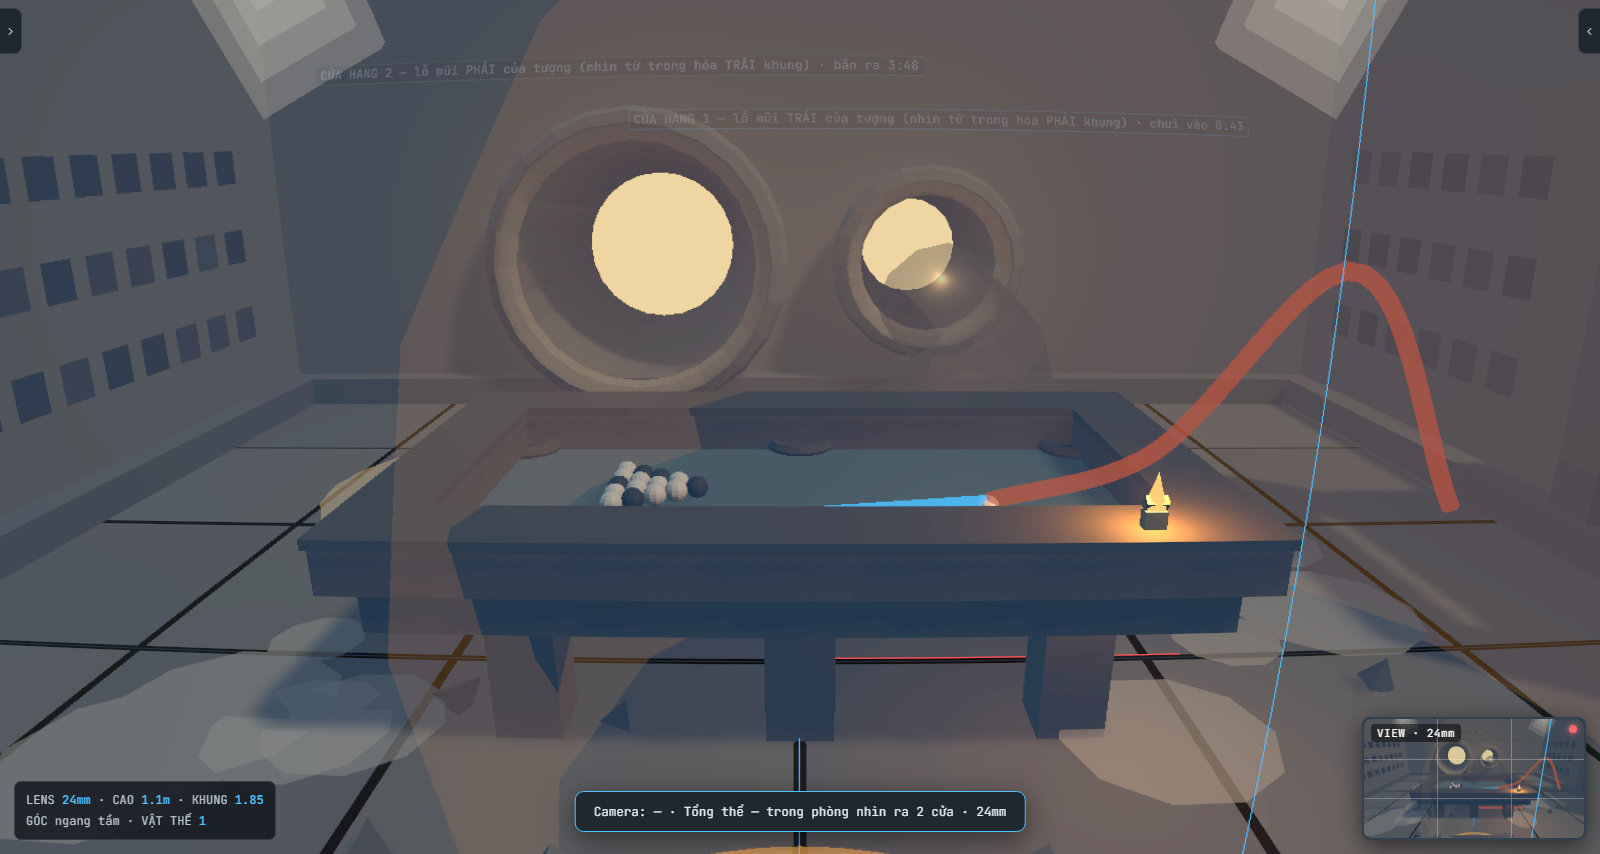
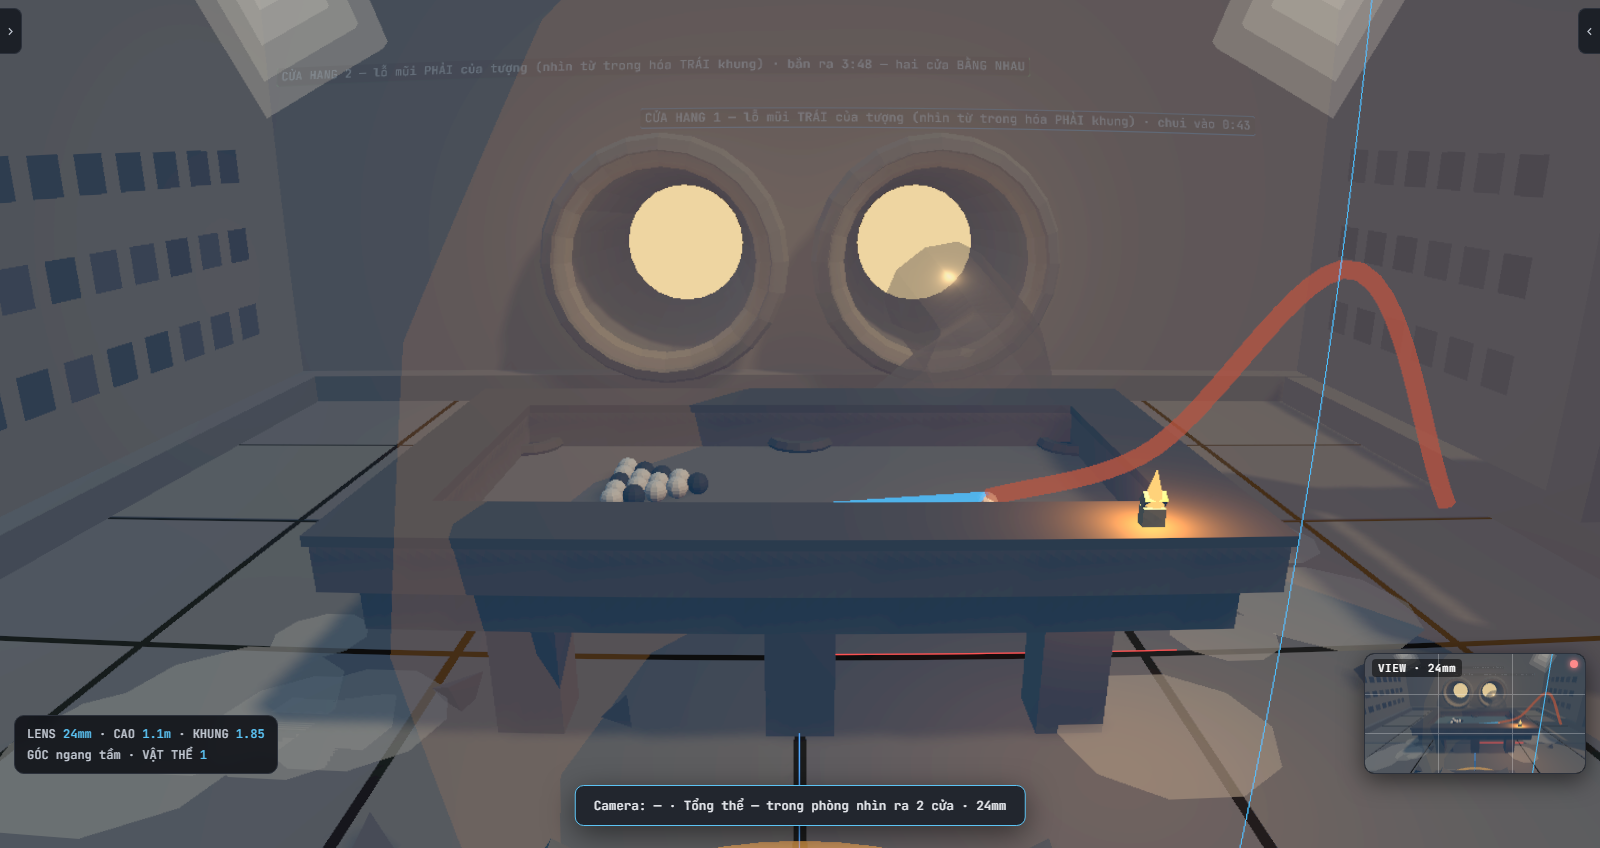
C2 + phong bida: hai lo mui BANG NHAU theo ref (o1.5), loa ken nam ben trong
Ref mat na vang: hai lo mui tron giong het nhau. Bo cach doc Set Bible
(trai o1.2 / phai loa o3) theo chi dao:
- Dau tuong: hai lo mui o1.5 doi xung x=±1.5, moi lo mot go dung
  (mat tren y=0.45), ong ken khuech dai nam BEN TRONG dau
- Phong bida: hai cua hang bang nhau o2.4 tai x=±1.5, thu dan ra ngoai
  toi o1.5 o mat tuong; den, vet sang san, mang truot, vong zone, nhan
  va ghi chu khoi cap nhat theo

diff --git a/jenny-pixel-studio.html b/jenny-pixel-studio.html
@@ -3468,7 +3468,7 @@ const C2={
 const C2_PIT={w:60,d:40,deep:6};              // hố 60 × 40, sâu 6 m
 const C2_HEAD={h:9,w:10,dp:10,chin:-3};       // đầu 9 m, cằm y=-3, đỉnh bờm y=+6
 const C2_FACE_Z=15.3;                         // mặt trước mõm ngựa + lỗ mũi nhô ra
-const C2_NOSE_L=[-1.6,4.2,7.4], C2_NOSE_R=[1.4,4.2,7.4];   // lỗ mũi trái (ø1.2) / phải (loe ø3), cục bộ đầu
+const C2_NOSE_L=[-1.5,4.2,7.4], C2_NOSE_R=[1.5,4.2,7.4];   // HAI LỖ MŨI BẰNG NHAU ø1.5 (theo ref), cục bộ đầu; loa kèn nằm bên trong
 const C2_NOSE_Y=1.2;                          // cao độ hai lỗ mũi
 const C2_TAPE_Z=28;                           // dây phong tỏa: cách chân tượng (z=+18) 10 m
 const C2_POST_Z=26;                           // bục gác, ngay TRONG dây
@@ -3627,20 +3627,15 @@ function buildC2Head(){
   const muzzle=box(4.8,3.6,6.4,C2.lime);muzzle.position.set(0,4.1,4.0);muzzle.rotation.x=.06;g.add(muzzle);
   const tip=gmesh(new THREE.SphereGeometry(2.6,14,10),C2.lime);tip.scale.set(1.12,.7,.55);tip.position.set(0,4.15,5.85);g.add(tip);   // mặt trước ~z 7.3
   const bridge=box(2.2,.7,5.6,C2.lime2);bridge.position.set(0,5.75,3.2);bridge.rotation.x=.1;g.add(bridge);   // sống mũi — đường leo
-  // ── HAI LỖ MŨI ở đầu mõm + GỜ ĐỨNG ──
-  const [lx,ny,nz]=C2_NOSE_L,[rx]=C2_NOSE_R;
-  const lnose=new THREE.Group();lnose.position.set(lx,ny,nz);
-  const ltube=gmesh(new THREE.CylinderGeometry(.72,.68,.9,18,1,true),C2.lime2);ltube.rotation.x=Math.PI/2;ltube.position.z=.45;ltube.material.side=THREE.DoubleSide;lnose.add(ltube);
-  const lrim=gmesh(new THREE.TorusGeometry(.68,.22,8,20),C2.lime2);lrim.position.z=.9;lnose.add(lrim);
-  const lhole=gmesh(new THREE.CircleGeometry(.6,18),'#2b2720');lhole.position.z=.02;lnose.add(lhole);               // miệng lỗ tối (ø1.2)
-  const lledge=box(1.5,.28,1.1,C2.lime2);lledge.position.set(0,-.74,1.2);lnose.add(lledge);          // gờ đứng phía trước, mặt trên y = ny-0.6
-  g.add(lnose);
-  const rnose=new THREE.Group();rnose.position.set(rx,ny,nz);
-  const bell=gmesh(new THREE.CylinderGeometry(1.5,.6,2.2,22,1,true),C2.lime2);bell.rotation.x=-Math.PI/2;bell.position.z=1.1;bell.material.side=THREE.DoubleSide;rnose.add(bell);   // loe ra ngoài, miệng ø3 ở z+2.2
-  const bellRim=gmesh(new THREE.TorusGeometry(1.5,.22,8,26),C2.lime);bellRim.position.z=2.2;rnose.add(bellRim);
-  const throat=gmesh(new THREE.CircleGeometry(.58,16),'#241f19');throat.position.z=.02;rnose.add(throat);          // họng tối trong loa
-  const rledge=box(2.4,.28,1.1,C2.lime2);rledge.position.set(0,-1.64,2.5);rnose.add(rledge);         // gờ đứng dưới miệng loa
-  g.add(rnose);
+  // ── HAI LỖ MŨI BẰNG NHAU ø1.5 ở đầu mõm, mỗi lỗ một GỜ ĐỨNG (ref: hai lỗ tròn to giống hệt) ──
+  [C2_NOSE_L,C2_NOSE_R].forEach(([nx,ny,nz])=>{
+    const n=new THREE.Group();n.position.set(nx,ny,nz);
+    const tube=gmesh(new THREE.CylinderGeometry(.9,.85,.9,20,1,true),C2.lime2);tube.rotation.x=Math.PI/2;tube.position.z=.45;tube.material.side=THREE.DoubleSide;n.add(tube);
+    const rim=gmesh(new THREE.TorusGeometry(.85,.24,8,22),C2.lime2);rim.position.z=.9;n.add(rim);
+    const hole=gmesh(new THREE.CircleGeometry(.75,20),'#2b2720');hole.position.z=.02;n.add(hole);          // miệng lỗ tối ø1.5
+    const ledge=box(1.8,.28,1.1,C2.lime2);ledge.position.set(0,-.89,1.2);n.add(ledge);                       // gờ đứng, mặt trên = ny-0.75
+    g.add(n);
+  });
   // MẮT LÉ LỒI: hai cầu to hai bên sọ, con ngươi dồn vào giữa; mắt phải có MẢNG TỐI quanh
   [-1,1].forEach(sx=>{
     const eye=gmesh(new THREE.SphereGeometry(1.25,14,11),C2.bone);eye.position.set(sx*2.2,7.1,2.1);g.add(eye);
@@ -3704,7 +3699,7 @@ function buildC2Horn(){
     new THREE.Vector3( 1.4,ny+.1,2.0),
     new THREE.Vector3(C2_NOSE_R[0],ny,nz-.9)
   ]);
-  const tube=new THREE.Mesh(new THREE.TubeGeometry(curve,50,.62,10,false),
+  const tube=new THREE.Mesh(new THREE.TubeGeometry(curve,50,.75,10,false),
     new THREE.MeshStandardMaterial({color:'#6f6355',roughness:.9,flatShading:true,side:THREE.DoubleSide}));
   tube.castShadow=true;g.add(tube);
   [0.16,0.5,0.84].forEach(t=>{
@@ -3894,8 +3889,8 @@ function buildC2Zones(){
   axis.rotation.x=-Math.PI/2;axis.position.set(0,.09,(C2_POST_Z+C2_FACE_Z)/2);g.add(axis);
   g.add(tag('TRỤC CHỒNG KHUNG — mặt Coppa ⟷ mặt tượng (50–85 mm)',-17,1.5,19,1.6,EG.red));
   z(2.0,0,0,C2_POST_Z,EG.warm); g.add(tag('Z_BỤC GÁC — Pipo + Coppa (0:20)',0,2.6,C2_POST_Z+2.6,1.35,EG.warm));
-  z(1.3,C2_NOSE_L[0],C2_NOSE_Y,C2_FACE_Z+.8); g.add(tag('Z_MŨI TRÁI ø1.2 — có GỜ ĐỨNG: đặt Coppa lên đây (0:30) rồi chui vào (0:43)',-8.5,4.4,C2_FACE_Z+1,1.5));
-  z(2.0,C2_NOSE_R[0],C2_NOSE_Y,C2_FACE_Z+.8,'#7fd88f'); g.add(tag('Z_MŨI PHẢI ø3 — kèn nổ (0:35) · phun cát (3:48)',9.5,5.6,C2_FACE_Z+1,1.5,'#7fd88f'));
+  z(1.4,C2_NOSE_L[0],C2_NOSE_Y,C2_FACE_Z+.8); g.add(tag('Z_MŨI TRÁI ø1.5 — có GỜ ĐỨNG: đặt Coppa lên đây (0:30) rồi chui vào (0:43)',-8.5,4.4,C2_FACE_Z+1,1.5));
+  z(1.4,C2_NOSE_R[0],C2_NOSE_Y,C2_FACE_Z+.8,'#7fd88f'); g.add(tag('Z_MŨI PHẢI ø1.5 — kèn nổ (0:35) · phun cát (3:48); loa kèn khuếch đại nằm BÊN TRONG đầu',9.5,5.6,C2_FACE_Z+1,1.5,'#7fd88f'));
   z(1.2,7,-C2_PIT.deep,19); g.add(tag('Z_BẢNG KHẢO CỔ — insert 0:38',9,-3.6,19,1.2));
   z(3.0,0,0,34,'#7fd88f'); g.add(tag('Z_ĐÁM ĐÔNG — ngoài dây, 36 người',0,3.0,38,1.4,'#7fd88f'));
   z(3.0,0,0,31,EG.warm); g.add(tag('Z_RƠI C9 — hai đứa bắn ra mũi phải, rơi ở đây (3:45)',0,2.2,29.5,1.4,EG.warm));
@@ -3956,8 +3951,8 @@ function buildBdShell(){
   right.rotation.y=-Math.PI/2;right.position.set(W,0,0);right.receiveShadow=true;g.add(right);
   // tường trước (−Z): khoét HAI LỖ TRÒN = hai lỗ mũi
   const shF=new THREE.Shape();shF.moveTo(-W,0);shF.lineTo(W,0);shF.lineTo(W,H);shF.lineTo(-W,H);shF.closePath();
-  const h1=new THREE.Path();h1.absarc(-1.8,BD_NOSE_Y,1.5,0,Math.PI*2,true);
-  const h2=new THREE.Path();h2.absarc( 1.4,BD_NOSE_Y,.9,0,Math.PI*2,true);
+  const h1=new THREE.Path();h1.absarc(-1.5,BD_NOSE_Y,1.2,0,Math.PI*2,true);
+  const h2=new THREE.Path();h2.absarc( 1.5,BD_NOSE_Y,1.2,0,Math.PI*2,true);
   shF.holes.push(h1,h2);
   const front=new THREE.Mesh(new THREE.ShapeGeometry(shF,24),bdWallMat(BD.wall));
   front.position.set(0,0,-D);front.receiveShadow=true;g.add(front);
@@ -4001,30 +3996,18 @@ function buildBdCeil(){
 function buildBdHoles(){
   const g=new THREE.Group();
   const fz=-BDR.d/2;
-  // cửa TRÁI KHUNG (x=-1.8) = lỗ mũi PHẢI của tượng — loe loa kèn ø3, lối bắn ra C9
-  const R1=1.5;
-  const bell=gmesh(new THREE.CylinderGeometry(R1,R1*.62,2.4,24,1,true),BD.wall2);
-  bell.rotation.x=Math.PI/2;bell.position.set(-1.8,BD_NOSE_Y,fz-.6);
-  bell.material.side=THREE.DoubleSide;g.add(bell);
-  const rim1=gmesh(new THREE.TorusGeometry(R1,.18,8,24),BD.wall);
-  rim1.position.set(-1.8,BD_NOSE_Y,fz+.35);g.add(rim1);
-  // ánh sáng ngoài lọt vào
-  const day1=new THREE.Mesh(new THREE.CircleGeometry(R1*.62,24),
-    new THREE.MeshBasicMaterial({color:'#ffe6b0',transparent:true,opacity:.85}));
-  day1.position.set(-1.8,BD_NOSE_Y,fz-1.75);g.add(day1);
-
-  // cửa PHẢI KHUNG (x=+1.4) = lỗ mũi TRÁI của tượng — nhỏ ø1.2 ngoài, loe ø1.8 trong
-  const R2=.9;
-  const chute=gmesh(new THREE.CylinderGeometry(R2,.6,2.4,20,1,true),BD.wall2);
-  chute.rotation.x=Math.PI/2;chute.position.set(1.4,BD_NOSE_Y,fz-.6);
-  chute.material.side=THREE.DoubleSide;g.add(chute);
-  const rim2=gmesh(new THREE.TorusGeometry(R2,.16,8,20),BD.wall);
-  rim2.position.set(1.4,BD_NOSE_Y,fz+.35);g.add(rim2);
-  const day2=new THREE.Mesh(new THREE.CircleGeometry(.6,20),
-    new THREE.MeshBasicMaterial({color:'#ffe6b0',transparent:true,opacity:.85}));
-  day2.position.set(1.4,BD_NOSE_Y,fz-1.75);g.add(day2);
+  // HAI CỬA HANG BẰNG NHAU ø2.4 (ref: hai lỗ mũi giống hệt). Trái khung x=-1.5 = lỗ mũi PHẢI tượng (bắn ra C9),
+  // phải khung x=+1.5 = lỗ mũi TRÁI tượng (chui vào). Ống thu dần ra ngoài tới ø1.5 ở mặt tượng.
+  const R1=1.2;
+  [-1.5,1.5].forEach(x=>{
+    const tube=gmesh(new THREE.CylinderGeometry(R1,.75,2.4,24,1,true),BD.wall2);
+    tube.rotation.x=Math.PI/2;tube.position.set(x,BD_NOSE_Y,fz-.6);tube.material.side=THREE.DoubleSide;g.add(tube);
+    const rim=gmesh(new THREE.TorusGeometry(R1,.18,8,24),BD.wall);rim.position.set(x,BD_NOSE_Y,fz+.35);g.add(rim);
+    const day=new THREE.Mesh(new THREE.CircleGeometry(.75,24),new THREE.MeshBasicMaterial({color:'#ffe6b0',transparent:true,opacity:.85}));
+    day.position.set(x,BD_NOSE_Y,fz-1.75);g.add(day);
+  });
   // máng đá xoắn ngắn dẫn xuống sàn (kịch bản: "trượt theo ống đá xoắn, rớt bịch")
-  const pts=[new THREE.Vector3(1.4,BD_NOSE_Y-.3,fz+.4),
+  const pts=[new THREE.Vector3(1.5,BD_NOSE_Y-.3,fz+.4),
              new THREE.Vector3(1.9,BD_NOSE_Y-.9,fz+1.5),
              new THREE.Vector3(1.4,.55,fz+2.6),
              new THREE.Vector3(.7,.18,fz+3.4)];
@@ -4034,12 +4017,12 @@ function buildBdHoles(){
       side:THREE.DoubleSide,transparent:true,opacity:.55}));
   g.add(slide);
   // đèn thật: ánh ngày lọt qua hai cửa hang — nguồn sáng nền của phòng
-  [[-1.8,1.5],[1.4,1.0]].forEach(([x,pw])=>{
+  [[-1.5,1.3],[1.5,1.3]].forEach(([x,pw])=>{
     const L=new THREE.PointLight('#ffe0ae',pw,16,1.6);
     L.position.set(x,BD_NOSE_Y,fz+1.2);g.add(L);
   });
   // vệt sáng hắt lên sàn từ hai cửa
-  [[-1.8,R1*.9],[1.4,R2*.9]].forEach(([x,r])=>{
+  [[-1.5,R1*.9],[1.5,R1*.9]].forEach(([x,r])=>{
     const p=new THREE.Mesh(new THREE.CircleGeometry(r,20),
       new THREE.MeshBasicMaterial({color:'#ffe0a8',transparent:true,opacity:.18,depthWrite:false}));
     p.rotation.x=-Math.PI/2;p.position.set(x*1.5,.04,fz+3.2);g.add(p);
@@ -4313,10 +4296,10 @@ function buildBdZones(){
   const g=new THREE.Group();
   const fz=-BDR.d/2;
   const z=(r,x,y,zz,c)=>{const m=zoneRing(r,c);m.position.set(x,(y||0)+.06,zz);g.add(m);};
-  z(1.1,1.4,0,fz+3.2,EG.mark);
-  g.add(tag('CỬA HANG 1 — lỗ mũi TRÁI của tượng (nhìn từ trong hóa PHẢI khung) · chui vào 0:43',1.4,3.1,fz+1.2,1.45));
-  z(1.5,-1.8,0,fz+3.2,'#7fd88f');
-  g.add(tag('CỬA HANG 2 — lỗ mũi PHẢI của tượng (nhìn từ trong hóa TRÁI khung) · bắn ra 3:48',-1.8,3.6,fz+1.2,1.45,'#7fd88f'));
+  z(1.4,1.5,0,fz+3.2,EG.mark);
+  g.add(tag('CỬA HANG 1 — lỗ mũi TRÁI của tượng (nhìn từ trong hóa PHẢI khung) · chui vào 0:43',1.5,3.1,fz+1.2,1.45));
+  z(1.4,-1.5,0,fz+3.2,'#7fd88f');
+  g.add(tag('CỬA HANG 2 — lỗ mũi PHẢI của tượng (nhìn từ trong hóa TRÁI khung) · bắn ra 3:48 — hai cửa BẰNG NHAU',-1.5,3.6,fz+1.2,1.45,'#7fd88f'));
   z(1.4,0,0,3.0,EG.warm);
   g.add(tag('Z_CỬA SẬP 2×2 — sàn mở, cả hai rớt xuống',0,1.5,3.9,1.2,EG.warm));
   g.add(tag('MẶT BÀN CAO ĐÚNG 1.0 m = CHIỀU CAO PIPO → C8 Pipo phải trèo lên thành bàn',0,2.35,-1.6,1.55,EG.red));
@@ -4934,7 +4917,7 @@ const SET_DEFS={
   },
   setBida:{
     label:'C2b + C8 · Phòng bida trong đầu nhân sư',
-    note:'Phòng đá 12×12×5 m (đã nới rộng), tường tàng hình khi nhìn từ ngoài. MỘT model hai state. Hai cửa hang chính là hai lỗ mũi tượng — nhìn từ trong ra thì trái/phải ĐẢO so với nhìn mặt tượng từ ngoài. Bật/tắt STATE A (C2b) và STATE B (C8) trong danh sách bộ phận.',
+    note:'Phòng đá 12×12×5 m (đã nới rộng), tường tàng hình khi nhìn từ ngoài. MỘT model hai state. Hai cửa hang BẰNG NHAU chính là hai lỗ mũi tượng — nhìn từ trong ra thì trái/phải ĐẢO so với nhìn mặt tượng từ ngoài. Bật/tắt STATE A (C2b) và STATE B (C8) trong danh sách bộ phận.',
     small:true,
     parts:[
       {k:'bd_shell',  p:[0,0,0]},
@@ -5060,7 +5043,7 @@ const SET_DEFS={
       {t:'0:38',n:'Insert bảng khảo cổ',            p:[7.6,-4.0,22.5],tg:[7,-4.9,19.3],f:50},
       {t:'0:43',n:'Coppa chui mũi trái',            p:[-5.2,1.6,19.5],tg:[-1.6,1.2,15.3],f:50},
       {t:'3:45',n:'C9 wide - đám đông nhặt nón',    p:[-22,5,50],    tg:[0,1,26],    f:35},
-      {t:'3:48',n:'C9 mũi phải phun cát',           p:[10,2.4,25.5], tg:[1.4,1.2,15.5],f:50},
+      {t:'3:48',n:'C9 mũi phải phun cát',           p:[10,2.4,25.5], tg:[1.5,1.2,15.5],f:50},
       {t:'3:55',n:'C9 Coppa vỗ móng - đám đông quỳ',p:[0,1.7,26],    tg:[0,1.5,36],  f:35}
     ]
   },
